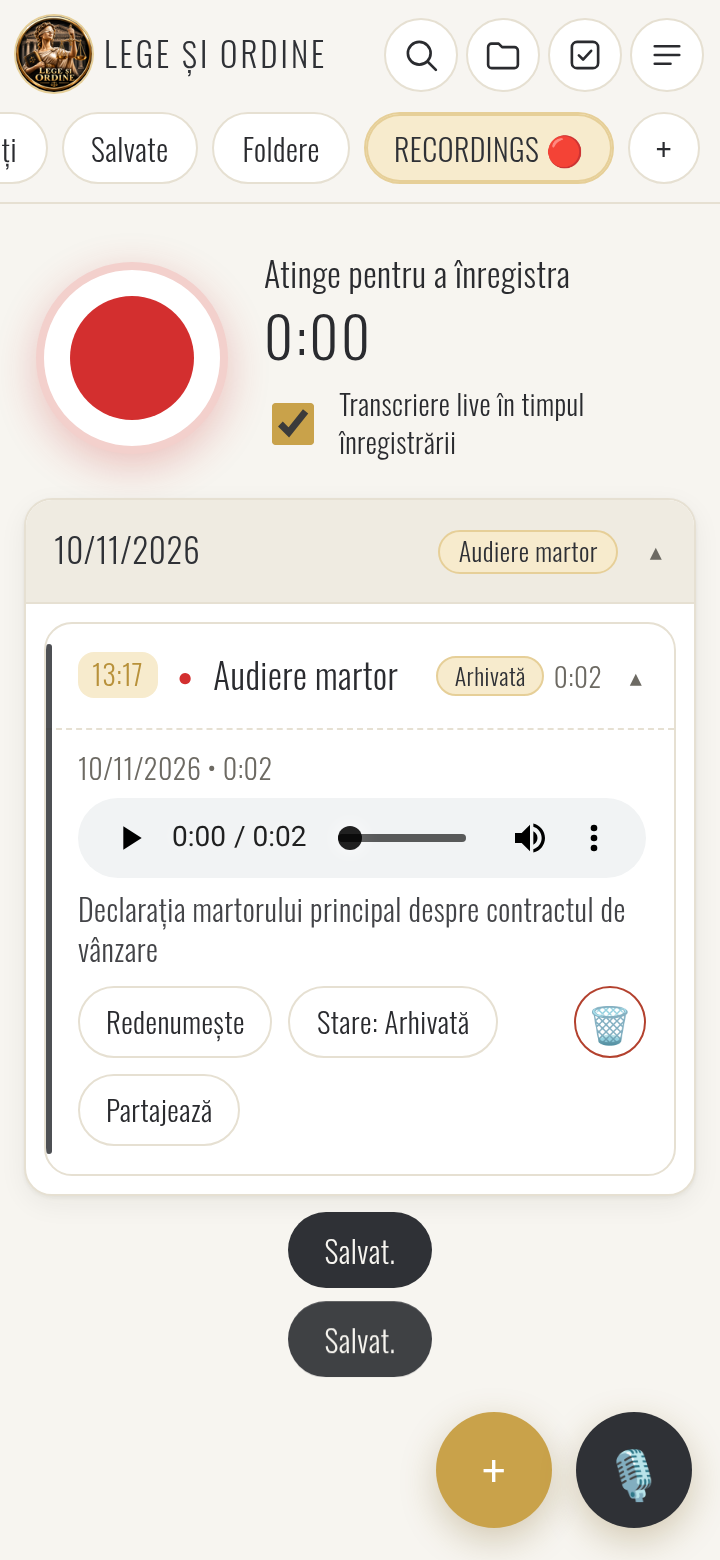
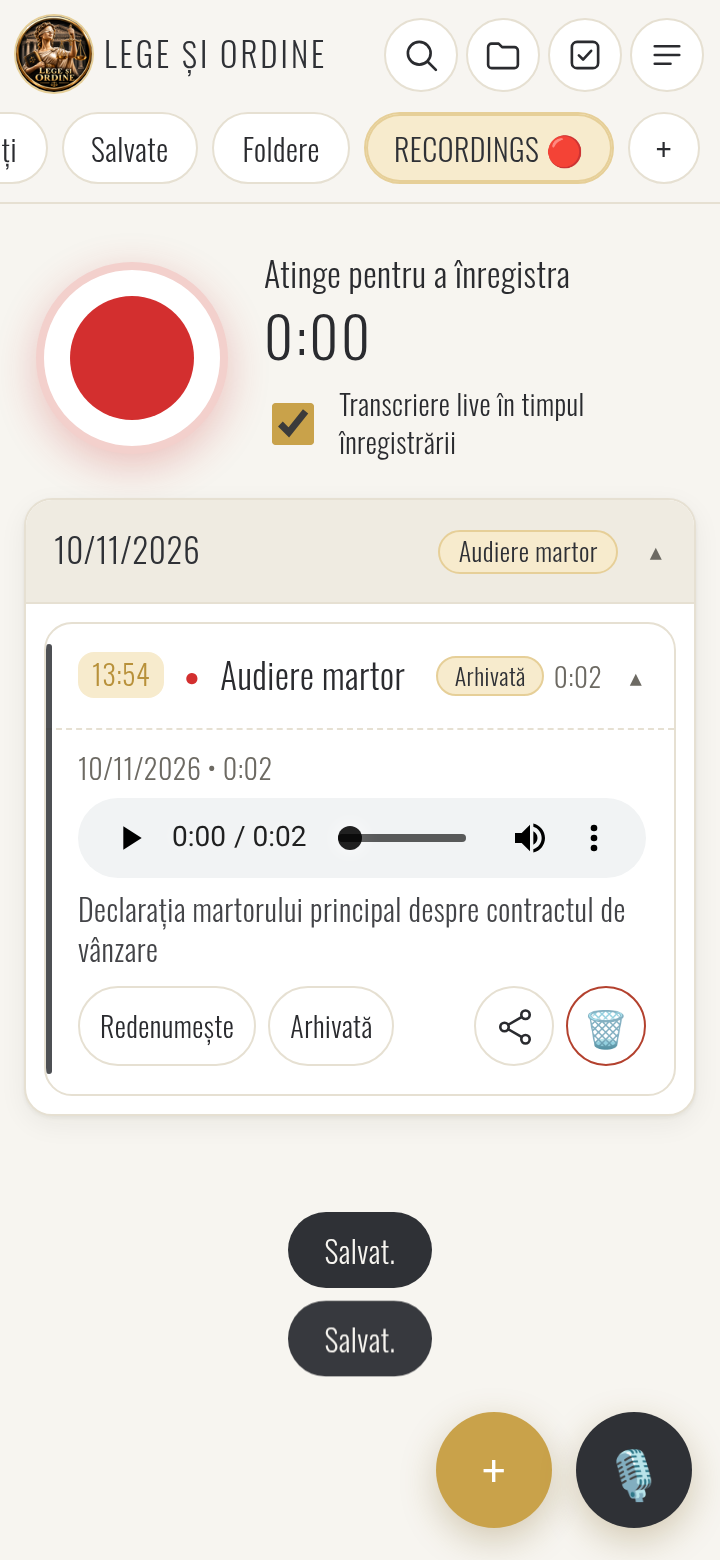
Rândul de acțiuni la înregistrări încape pe o singură linie (v1.0.1)
Redenumește, starea curentă, icoana Share (Android/Material, trei puncte legate) și coșul 🗑 stau pe același rând, cu țintă de cel puțin 40px. Versiunea Android trece la 1.0.1 (versionCode 2), ca să se instaleze peste 1.0.0 fără pierdere de date.

diff --git a/js/ui/list.js b/js/ui/list.js
@@ -156,6 +156,27 @@ export async function saveToSaved(it, d) {
   toast(t('savedOk'));
 }
 
+// Icoană Share Android/Material (trei puncte legate), desenată ca SVG cu același stil de linioară ca butoanele din antet.
+// Nu am găsit o descriere sau o captură exactă a icoanei din Notis în referința comportamentală sau în atașamente.
+function shareIcon() {
+  const svg = document.createElementNS('http://www.w3.org/2000/svg', 'svg');
+  svg.setAttribute('viewBox', '0 0 24 24');
+  svg.setAttribute('aria-hidden', 'true');
+  const el = (name, attrs) => {
+    const n = document.createElementNS('http://www.w3.org/2000/svg', name);
+    for (const [k, v] of Object.entries(attrs)) n.setAttribute(k, v);
+    return n;
+  };
+  svg.append(
+    el('circle', { cx: '18', cy: '5', r: '2.4' }),
+    el('circle', { cx: '6', cy: '12', r: '2.4' }),
+    el('circle', { cx: '18', cy: '19', r: '2.4' }),
+    el('path', { d: 'M8.2 10.7L15.7 6.4' }),
+    el('path', { d: 'M8.2 13.3L15.7 17.6' }),
+  );
+  return svg;
+}
+
 function recRow2(it, d) {
   const audio = h('audio', { controls: true, preload: 'none', class: 'rec-audio' });
   getMedia(d.mid).then(m => { if (m) audio.src = URL.createObjectURL(m.blob); else audio.replaceWith(h('div', { class: 'r2-meta' }, t('mediaMissing'))); });
@@ -163,11 +184,10 @@ function recRow2(it, d) {
     h('div', { class: 'r2-meta' }, `${fmtTsDate(d.at || it.created)} • ${fmtDur(d.duration)}`),
     audio,
     d.transcript ? h('div', { class: 'r2-text pre' }, d.transcript) : h('div', { class: 'r2-meta' }, t('noTranscript')),
-    h('div', { class: 'r2-actions' },
-      h('div', { class: 'r2-actions-main' },
-        h('button', { class: 'btn sm ghost', type: 'button', onclick: () => app.renameRec(it) }, t('rename')),
-        h('button', { class: 'btn sm ghost', type: 'button', 'data-test': 'rec-status', onclick: () => app.recStatus(it) }, t('recStatusBtn', { s: d.status || '—' })),
-        h('button', { class: 'btn sm ghost', type: 'button', onclick: async () => { const m = await getMedia(d.mid); if (m) shareFile(m.blob, (d.name || 'inregistrare') + extOf(m.mime), d.name); } }, t('share'))),
-      h('button', { class: 'icon-btn sm trash', type: 'button', 'aria-label': t('delete'), 'data-test': 'rec-delete', onclick: () => app.deleteItem(it) }, '🗑')));
+    h('div', { class: 'r2-actions rec-actions' },
+      h('button', { class: 'btn sm ghost', type: 'button', onclick: () => app.renameRec(it) }, t('rename')),
+      h('button', { class: 'btn sm ghost', type: 'button', 'data-test': 'rec-status', 'aria-label': t('recStatusBtn', { s: d.status || '—' }), onclick: () => app.recStatus(it) }, d.status || '—'),
+      h('button', { class: 'icon-btn share', type: 'button', 'aria-label': t('share'), title: t('share'), 'data-test': 'rec-share', onclick: async () => { const m = await getMedia(d.mid); if (m) shareFile(m.blob, (d.name || 'inregistrare') + extOf(m.mime), d.name); } }, shareIcon()),
+      h('button', { class: 'icon-btn trash', type: 'button', 'aria-label': t('delete'), 'data-test': 'rec-delete', onclick: () => app.deleteItem(it) }, '🗑')));
 }
 export const extOf = mime => (/ogg/.test(mime) ? '.ogg' : /mp4|aac|m4a/.test(mime) ? '.m4a' : /webm/.test(mime) ? '.webm' : /jpeg/.test(mime) ? '.jpg' : /png/.test(mime) ? '.png' : /pdf/.test(mime) ? '.pdf' : '');

diff --git a/css/app.css b/css/app.css
@@ -78,10 +78,16 @@ mark { background: var(--gold-soft); color: inherit; border-radius: 3px; padding
 .r2-text { font-size: 15px; color: var(--text); opacity: .88; overflow-wrap: anywhere; }
 .r2-text.pre { white-space: pre-wrap; }
 .r2-line { display: flex; flex-wrap: wrap; gap: 8px; align-items: center; }
-.r2-actions { display: flex; align-items: flex-start; gap: 8px; margin-top: 4px; }
+.r2-actions { display: flex; flex-wrap: nowrap; align-items: center; gap: 6px; margin-top: 4px; }
 .r2-actions-main { display: flex; flex-wrap: wrap; gap: 8px; flex: 1; min-width: 0; }
+.rec-actions .btn.sm { min-height: 40px; min-width: 40px; padding: 6px 10px; font-size: 14px; flex: none; white-space: nowrap; }
+.rec-actions .icon-btn { width: 40px; height: 40px; flex: none; }
+.rec-actions .icon-btn.share { margin-left: auto; }
 .icon-btn.trash { color: var(--danger); border-color: var(--danger); background: transparent; font-size: 18px; }
 .icon-btn.trash:active { background: var(--danger-soft); }
+@media (max-width: 370px) {
+  .rec-actions .icon-btn { width: 40px; height: 40px; }
+}
 .card.done .r1t { text-decoration: line-through; opacity: .55; }
 .card.done, .card.past { opacity: .7; }
 .card.locked .r1t { color: var(--muted); }

diff --git a/sw.js b/sw.js
@@ -1,5 +1,5 @@
 // Service worker LEGE ȘI ORDINE – cache propriu, separat de Notis.
-const CACHE = 'lso-cache-v1.0.0';
+const CACHE = 'lso-cache-v1.0.1';
 const FILES = ['./', 'index.html', 'manifest.webmanifest', 'css/app.css', 'js/app.js', 'js/boot.js', 'js/ui/datetime.js', 'js/ui/daygroups.js', 'js/ui/editor.js', 'js/ui/list.js', 'js/ui/modal.js', 'js/ui/pillrow.js', 'js/ui/registry.js', 'js/ui/tabsbar.js', 'js/tabs/cats.js', 'js/tabs/kinds.js', 'js/tabs/recordings.js', 'js/tabs/views.js', 'js/core/crypto.js', 'js/core/db.js', 'js/core/i18n.js', 'js/core/seed.js', 'js/core/store.js', 'js/core/util.js', 'js/features/alarms.js', 'js/features/backup.js', 'js/features/media.js', 'js/features/search.js', 'js/features/settings.js', 'js/features/share.js', 'js/features/trash.js', 'js/features/voice.js', 'i18n/ro.js', 'icons/folder.png', 'icons/icon-192.png', 'icons/icon-512.png', 'icons/icon-96.png', 'icons/maskable-512.png', 'fonts/oswald-300-latin-ext.woff2', 'fonts/oswald-300-latin.woff2'];
 self.addEventListener('install', e => {
   e.waitUntil(caches.open(CACHE).then(c => c.addAll(FILES)).then(() => self.skipWaiting()));

diff --git a/js/core/store.js b/js/core/store.js
@@ -3,7 +3,7 @@ import { db, S } from './db.js';
 import { uid } from './util.js';
 import * as C from './crypto.js';
 
-export const APP_VERSION = '1.0.0';
+export const APP_VERSION = '1.0.1';
 
 export const state = {
   settings: {},
